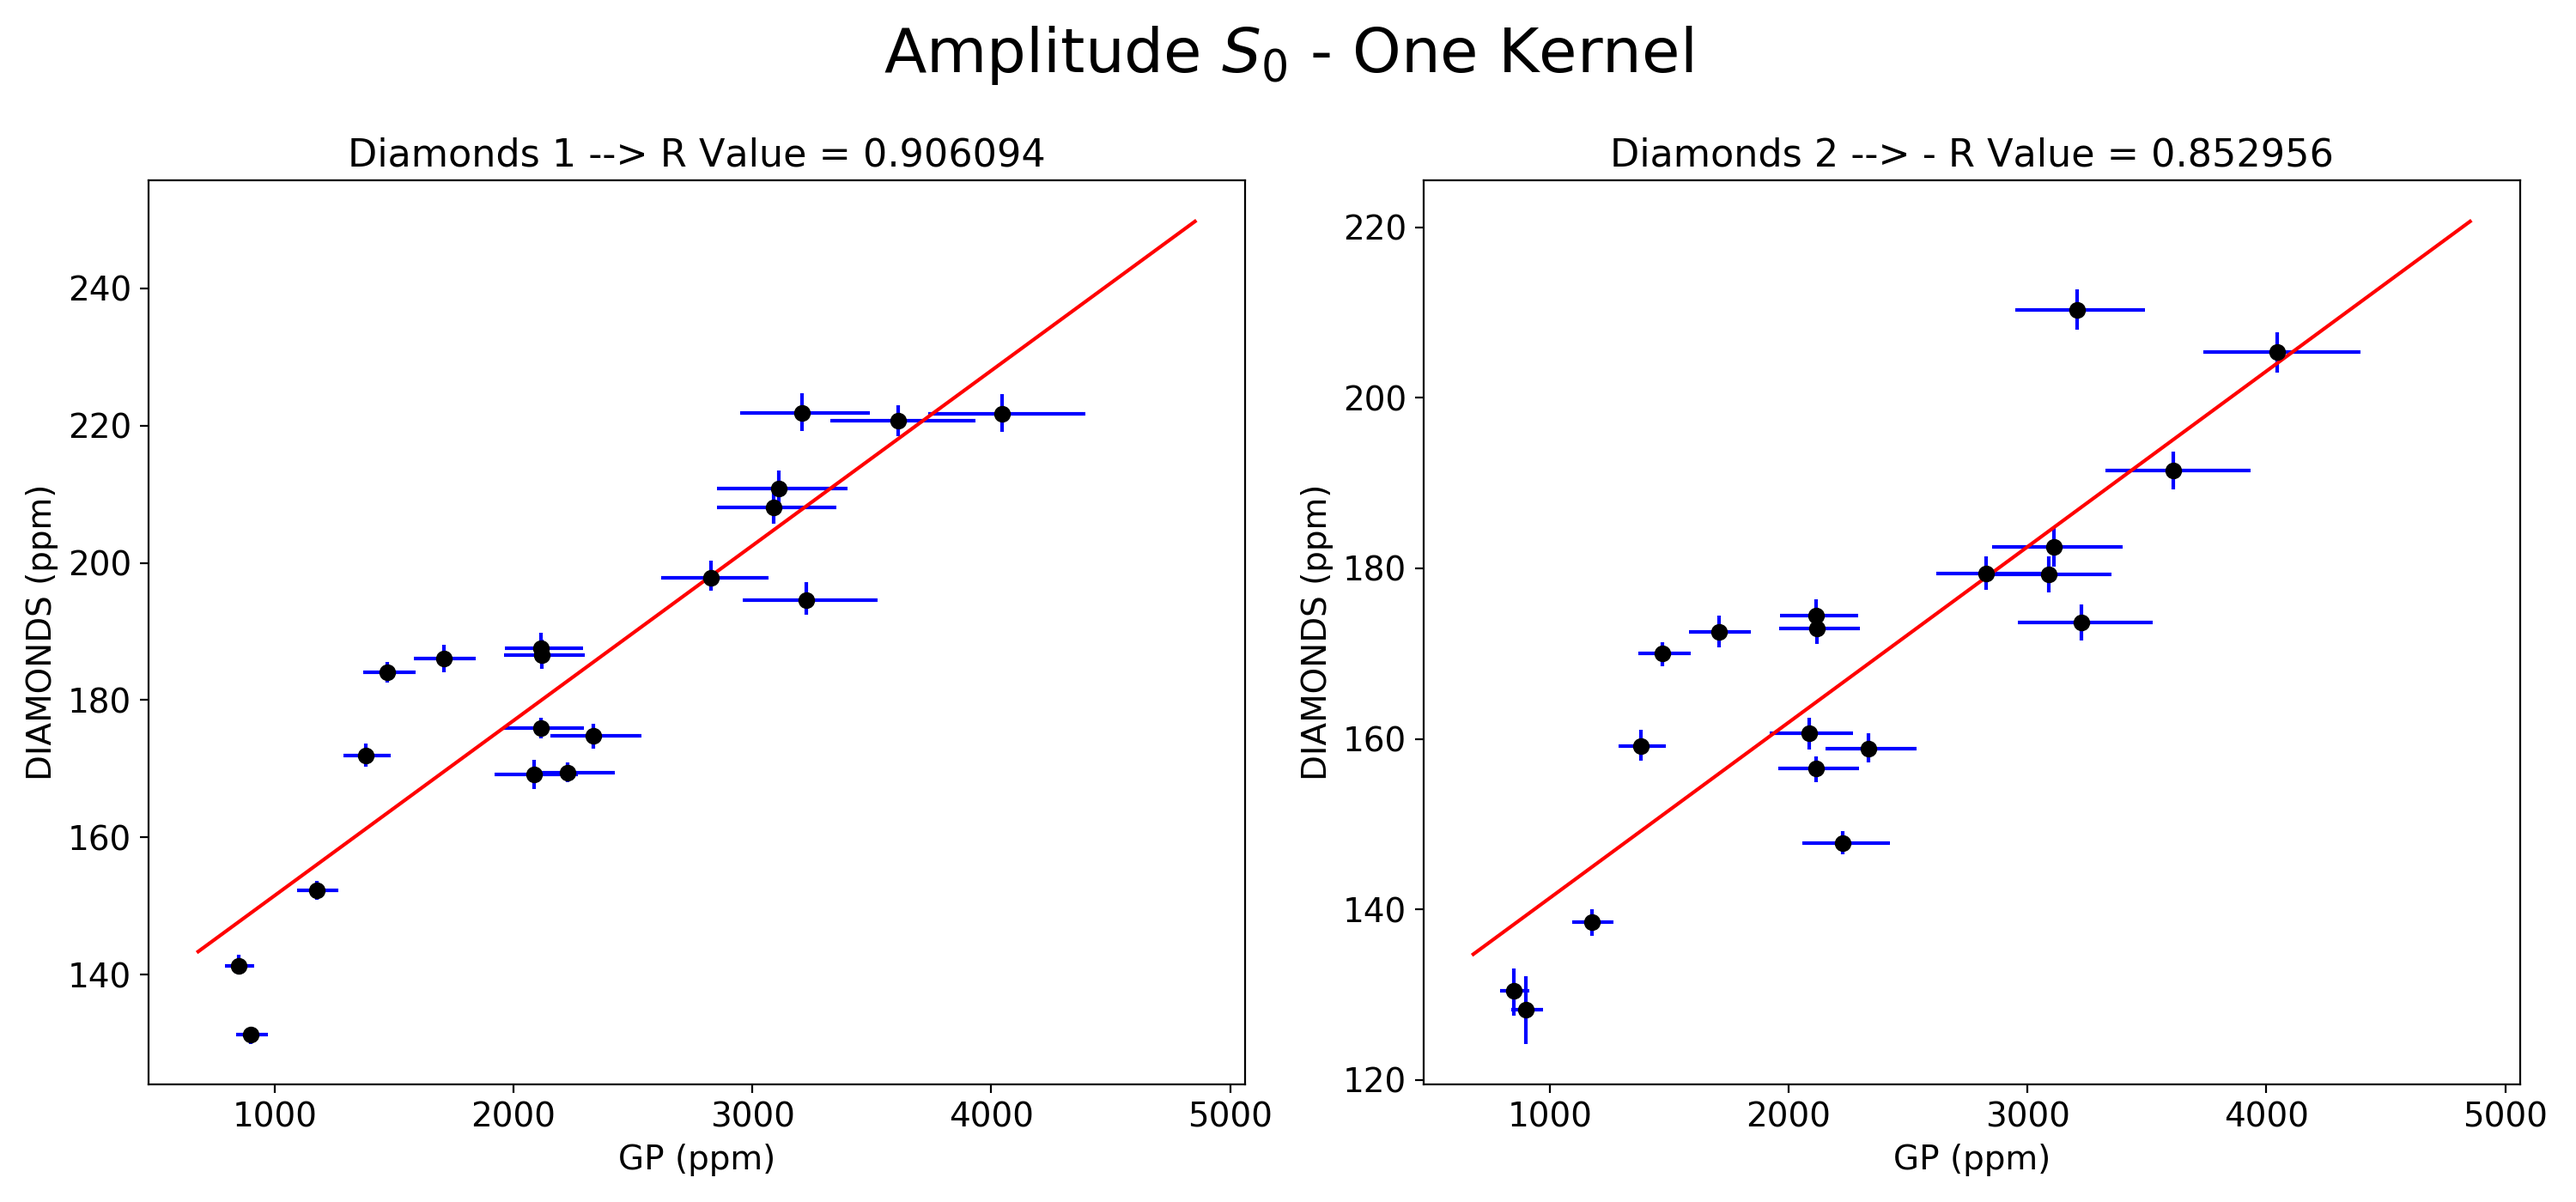
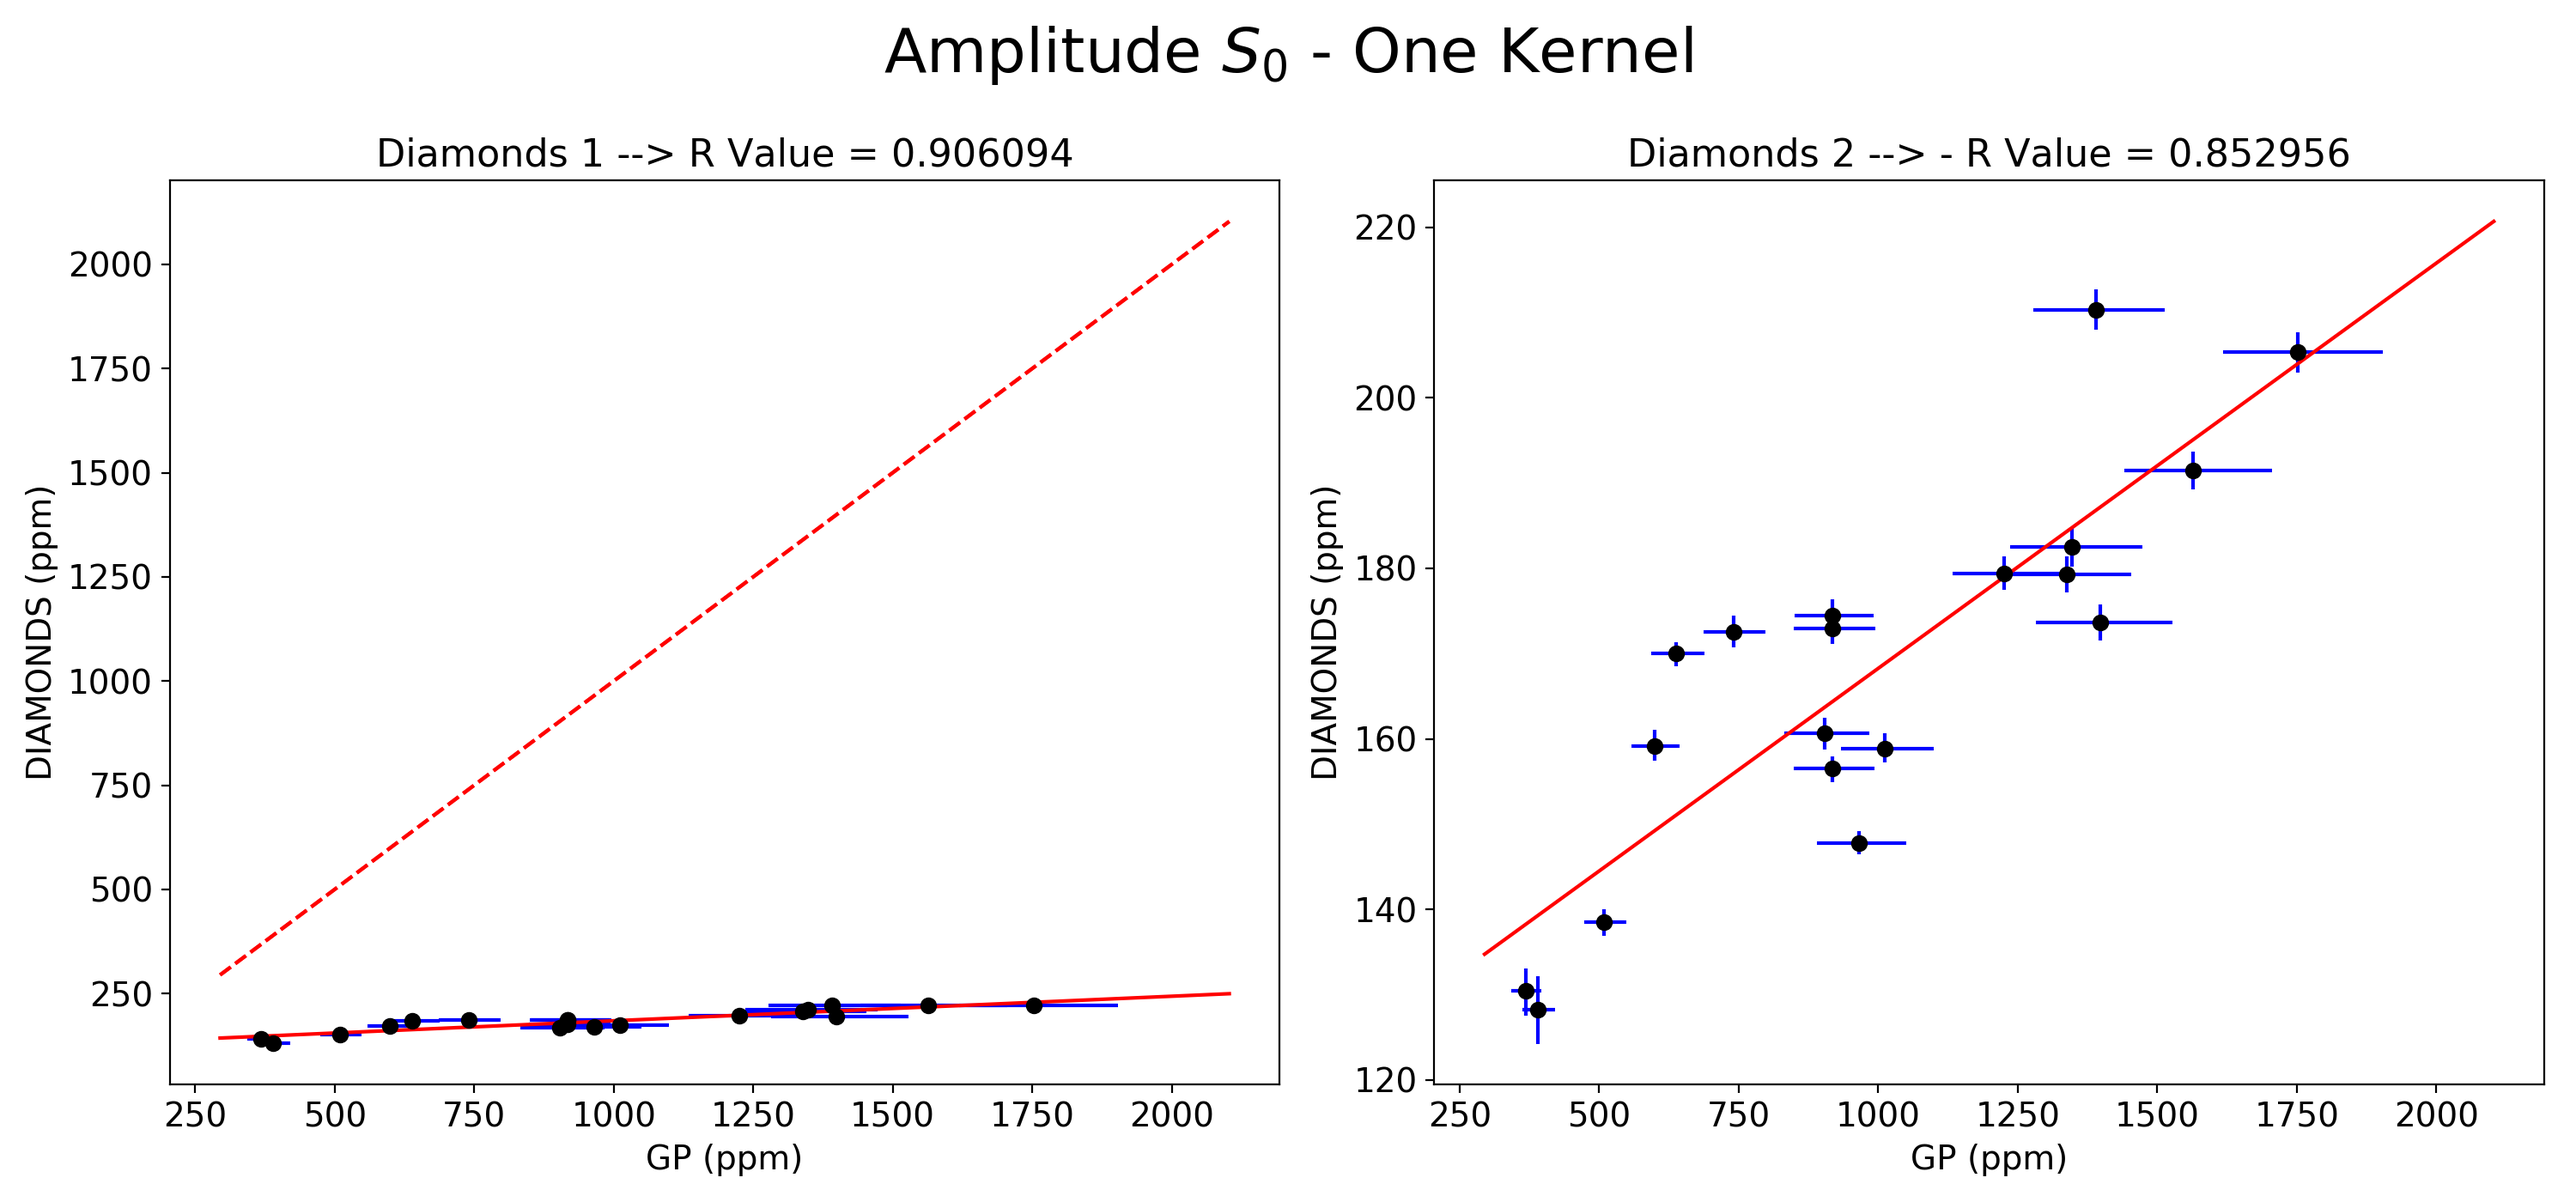
Added plots and changed plot scripts

diff --git a/GPTransits/test_script.py b/GPTransits/test_script.py
@@ -11,17 +11,17 @@ celerite_2kernel_large =  np.genfromtxt('celerite_mast_2kernel_large.results')
 diamonds = np.genfromtxt('diamonds.results')
 diamonds2 = np.genfromtxt('diamonds2.results')
 
-#factor = np.pi*2
-factor = 1
+factor = np.pi*2
+#factor = 1
 
 # Normalization
-celerite_1kernel[:,1:4] = np.sqrt(celerite_1kernel[:,1:4]*celerite_1kernel[:,1:4])
+celerite_1kernel[:,1:4] = np.sqrt(celerite_1kernel[:,1:4]*celerite_1kernel[:,1:4]/(4*np.pi**(1/4)))
 celerite_1kernel[:,4:7] = celerite_1kernel[:,4:7]*1e6/(24*3600*factor)
 
-celerite_2kernel_small[:,1:4] = np.sqrt(celerite_2kernel_small[:,1:4]*celerite_2kernel_small[:,1:4])
+celerite_2kernel_small[:,1:4] = np.sqrt(celerite_2kernel_small[:,1:4]*celerite_2kernel_small[:,1:4]/(4*np.pi**(1/4)))
 celerite_2kernel_small[:,4:7] = celerite_2kernel_small[:,4:7]*1e6/(24*3600*factor)
 
-celerite_2kernel_large[:,1:4] = np.sqrt(celerite_2kernel_large[:,1:4]*celerite_2kernel_large[:,1:4])
+celerite_2kernel_large[:,1:4] = np.sqrt(celerite_2kernel_large[:,1:4]*celerite_2kernel_large[:,1:4]/(4*np.pi**(1/4)))
 celerite_2kernel_large[:,4:7] = celerite_2kernel_large[:,4:7]*1e6/(24*3600*factor)
 
 ############################################################################
@@ -41,6 +41,7 @@ x = np.linspace(min(celerite_1kernel[:,1]*0.8), max(celerite_1kernel[:,1]*1.2), 
 linreg = linregress(celerite_1kernel[:,1], diamonds[:,1])
 rvalue = linreg.rvalue
 ax1.plot(x, x*linreg.slope + linreg.intercept, 'r')
+ax1.plot(x, x, 'r--')
 print(linreg.slope)
 
 ax1.set_title('Diamonds 1 --> R Value = {:6f}'.format(abs(rvalue)), fontsize=16)
@@ -58,6 +59,7 @@ x = np.linspace(min(celerite_1kernel[:,1]*0.8), max(celerite_1kernel[:,1]*1.2), 
 linreg = linregress(celerite_1kernel[:,1], diamonds2[:,1])
 rvalue = linreg.rvalue
 ax2.plot(x, x*linreg.slope + linreg.intercept, 'r')
+ax1.plot(x, x, 'r--')
 print(linreg.slope)
 
 ax2.set_title('Diamonds 2 --> - R Value = {:6f}'.format(abs(rvalue)), fontsize=16)
@@ -83,6 +85,7 @@ x = np.linspace(min(celerite_2kernel_small[:,1]*0.8), max(celerite_2kernel_small
 linreg = linregress(celerite_2kernel_small[:,1], diamonds[:,1])
 rvalue = linreg.rvalue
 ax3.plot(x, x*linreg.slope + linreg.intercept, 'r')
+ax1.plot(x, x, 'r--')
 print(linreg.slope)
 
 ax3.set_title('Small Kernel - Diamonds 1 --> R Value = {:6f}'.format(abs(rvalue)), fontsize=16)
@@ -100,6 +103,7 @@ x = np.linspace(min(celerite_2kernel_large[:,1]*0.8), max(celerite_2kernel_large
 linreg = linregress(celerite_2kernel_large[:,1], diamonds2[:,1])
 rvalue = linreg.rvalue
 ax4.plot(x, x*linreg.slope + linreg.intercept, 'r')
+ax1.plot(x, x, 'r--')
 print(linreg.slope)
 
 ax4.set_title('Large Kernel - Diamonds 2 --> R Value = {:6f}'.format(abs(rvalue)), fontsize=16)
@@ -129,9 +133,10 @@ x = np.linspace(min(celerite_1kernel[:,4]*0.8), max(celerite_1kernel[:,4]*1.2), 
 linreg = linregress(celerite_1kernel[:,4], diamonds[:,4])
 rvalue = linreg.rvalue
 ax1.plot(x, x*linreg.slope + linreg.intercept, 'r')
+#ax1.plot(x, x, 'r--')
 print(linreg.slope)
 
-ax1.set_title('Diamonds 1 --> R Value = {:6f}'.format(abs(rvalue)), fontsize=16)
+ax1.set_title(r'Low $\omega_0$ Diamonds --> R Value = {:6f}'.format(abs(rvalue)), fontsize=16)
 ax1.set_xlabel(r'GP ($\mu$Hz)',fontsize=14)
 ax1.set_ylabel(r'DIAMONDS ($\mu$Hz)',fontsize=14)
 ax1.tick_params(axis='both', which='major', labelsize=14)
@@ -145,9 +150,10 @@ x = np.linspace(min(celerite_1kernel[:,4]*0.8), max(celerite_1kernel[:,4]*1.2), 
 linreg = linregress(celerite_1kernel[:,4], diamonds2[:,4])
 rvalue = linreg.rvalue
 ax2.plot(x, x*linreg.slope + linreg.intercept, 'r')
+#ax2.plot(x, x, 'r--')
 print(linreg.slope)
               
-ax2.set_title('Diamonds 2 --> R Value = {:6f}'.format(abs(rvalue)), fontsize=16)
+ax2.set_title(r'High $\omega_0$ Diamonds --> R Value = {:6f}'.format(abs(rvalue)), fontsize=16)
 ax2.set_xlabel(r'GP ($\mu$Hz)',fontsize=14)
 ax2.set_ylabel(r'DIAMONDS ($\mu$Hz)',fontsize=14)
 ax2.tick_params(axis='both', which='major', labelsize=14)
@@ -168,9 +174,10 @@ x = np.linspace(min(celerite_2kernel_small[:,4]*0.8), max(celerite_2kernel_small
 linreg = linregress(celerite_2kernel_small[:,4], diamonds[:,4])
 rvalue = linreg.rvalue
 ax3.plot(x, x*linreg.slope + linreg.intercept, 'r')
+ax3.plot(x, x, 'r--')
 print(linreg.slope)
 
-ax3.set_title('Small Kernel - Diamonds 1 --> R Value = {:6f}'.format(abs(rvalue)), fontsize=16)
+ax3.set_title(r'Low $\omega_0$ Kernel - Low $\omega_0$ Diamonds --> R Value = {:6f}'.format(abs(rvalue)), fontsize=16)
 ax3.set_xlabel(r'GP ($\mu$Hz)',fontsize=14)
 ax3.set_ylabel(r'DIAMONDS ($\mu$Hz)',fontsize=14)
 ax3.tick_params(axis='both', which='major', labelsize=14)
@@ -184,9 +191,10 @@ x = np.linspace(min(celerite_2kernel_large[:,4]*0.8), max(celerite_2kernel_large
 linreg = linregress(celerite_2kernel_large[:,4], diamonds2[:,4])
 rvalue = linreg.rvalue
 ax4.plot(x, x*linreg.slope + linreg.intercept, 'r')
+ax4.plot(x, x, 'r--')
 print(linreg.slope)
               
-ax4.set_title('Large Kernel - Diamonds 2 --> R Value = {:6f}'.format(abs(rvalue)), fontsize=16)
+ax4.set_title(r'High $\omega_0$ Kernel - High $\omega_0$ Diamonds --> R Value = {:6f}'.format(abs(rvalue)), fontsize=16)
 ax4.set_xlabel(r'GP ($\mu$Hz)',fontsize=14)
 ax4.set_ylabel(r'DIAMONDS ($\mu$Hz)',fontsize=14)
 ax4.tick_params(axis='both', which='major', labelsize=14)

diff --git a/GPTransits/backend.py b/GPTransits/backend.py
@@ -105,9 +105,9 @@ def setup_celerite(pars):
 	#S1, w1, S2, w2, S3, w3, jitter = pars
 	#S1, w1, S2, w2, S3, w3 = pars
 	#S1, w1, S2, w2, jitter = pars
-	#S1, w1, S2, w2 = pars
+	S1, w1, S2, w2 = pars
 	#S1, w1, jitter = pars
-	S1, w1 = pars
+	#S1, w1 = pars
 	
 	Q = 1.0 / np.sqrt(2.0)
 	terms = []
@@ -125,14 +125,14 @@ def setup_celerite(pars):
 	#'''
 	kernel_1 = celerite.terms.SHOTerm(log_S0=np.log(S1), log_Q=np.log(Q), log_omega0=np.log(w1))
 	kernel_1.freeze_parameter("log_Q")
-	#kernel_2 = celerite.terms.SHOTerm(log_S0=np.log(S2), log_Q=np.log(Q), log_omega0=np.log(w2))
-	#kernel_2.freeze_parameter("log_Q")
+	kernel_2 = celerite.terms.SHOTerm(log_S0=np.log(S2), log_Q=np.log(Q), log_omega0=np.log(w2))
+	kernel_2.freeze_parameter("log_Q")
 	#kernel_3 = celerite.terms.SHOTerm(log_S0=np.log(S3), log_Q=np.log(Q), log_omega0=np.log(w3))
 	#kernel_3.freeze_parameter("log_Q")
 	#kernel_4 = celerite.terms.SHOTerm(log_S0=np.log(S3), log_Q=np.log(Q), log_omega0=np.log(w3))
 	#kernel_4.freeze_parameter("log_Q")
 
-	kernel = kernel_1 #+ kernel_2 #+ kernel_3 #+ kernel_4
+	kernel = kernel_1 + kernel_2 #+ kernel_3 #+ kernel_4
 	#kernel += celerite.terms.JitterTerm(log_sigma=np.log(jitter))
 	#'''
 	
@@ -300,34 +300,35 @@ def run_mcmc(data, priors, plot=False, init_pars=None, nwalkers=20, burnin=500, 
 	if plot:
 
 		# Plotting the results from the MCMC method
-		fig1 = plt.figure("MCMC Method", figsize=(14, 14))
-		ax1 = fig1.add_subplot(211)
-		ax2 = fig1.add_subplot(212)
+		fig1 = plt.figure("MCMC Method", figsize=(14, 7))
+		ax1 = fig1.add_subplot(111)
+		#ax2 = fig1.add_subplot(212)
 		# Plot initial data with errors in both subplots
 		ax1.errorbar(phase, flux, yerr=error, fmt=".k", capsize=0, label= 'Flux', markersize='3', elinewidth=1)
-		ax2.errorbar(phase, flux, yerr=error, fmt=".k", capsize=0, label= 'Flux', markersize='3', elinewidth=1)
+		#ax2.errorbar(phase, flux, yerr=error, fmt=".k", capsize=0, label= 'Flux', markersize='3', elinewidth=1)
 		numpoints = (max(phase)-min(phase))/(1.0/48.0)
 		x = np.linspace(min(phase), max(phase), num=numpoints)
 		# Plot conditional predictive distribution of the model in upper plot
 		mu, cov = gp.predict(flux, x)
 		std = np.sqrt(np.diag(cov))
 		std = np.nan_to_num(std)
-		ax1.plot(x, mu, color="#ff7f0e", label= 'Mean distribution GP', linewidth=0.3)
-		ax1.fill_between(x, mu+3*std, mu-3*std, color="#ff7f0e", alpha=0.15, edgecolor="none", label= '3 sigma', linewidth=0.5)
-		ax1.fill_between(x, mu+2*std, mu-2*std, color="#ff7f0e", alpha=0.3, edgecolor="none", label= '2 sigma', linewidth=0.5)
-		ax1.fill_between(x, mu+std, mu-std, color="#ff7f0e", alpha=0.5, edgecolor="none", label= '1 sigma', linewidth=0.5)
-		ax1.set_title("Probability distribution for the gaussian process with the parameters from the MCMC",fontsize=15)
+		ax1.plot(x, mu, color="#ff7f0e", label= 'Mean distribution GP', linewidth=0.5)
+		#ax1.fill_between(x, mu+3*std, mu-3*std, color="#ff7f0e", alpha=0.15, edgecolor="none", label= '3 sigma', linewidth=0.5)
+		#ax1.fill_between(x, mu+2*std, mu-2*std, color="#ff7f0e", alpha=0.3, edgecolor="none", label= '2 sigma', linewidth=0.5)
+		ax1.fill_between(x, mu+std, mu-std, color="#ff7f0e", alpha=0.6, edgecolor="none", label= '1 sigma', linewidth=0.6)
+		#ax1.set_title("Probability distribution for the gaussian process with the parameters from the MCMC",fontsize=16)
 		ax1.set_ylabel('Flux[ppm]',fontsize=16)
-		ax1.legend(loc='upper left')
+		ax1.tick_params(axis='both', which='major', labelsize=16)
+		ax1.legend(loc='upper left', fontsize=15)
 		# Compute the prediction conditioned on the observations and plot it.
 		# Plot sample from the conditional ditribution in lower plot
 		#m = gp.sample_conditional(flux, x)
 		#ax2.plot(x, m, color="#4682b4", label= 'Sample')
-		ax2.plot(x, np.random.normal(loc=mu, scale=std), color="#4682b4", label='Sample')
-		ax2.set_title("Sample drawn from the probability distribution above",fontsize=16)
-		ax2.set_xlabel('Time [days]',fontsize=16)	
-		ax2.set_ylabel('Flux [ppm]',fontsize=16)
-		ax2.legend(loc='upper left')
+		#ax2.plot(x, np.random.normal(loc=mu, scale=std), color="#4682b4", label='Sample')
+		#ax2.set_title("Sample drawn from the probability distribution above",fontsize=16)
+		ax1.set_xlabel('Time [days]',fontsize=15)	
+		#ax2.set_ylabel('Flux [ppm]',fontsize=18)
+		#ax2.legend(loc='upper left')
 
 		labels = [priors[i][0] for i in priors]
 		fig2 = corner.corner(samples, labels=labels, 

diff --git a/GPTransits/config_file.py b/GPTransits/config_file.py
@@ -7,7 +7,7 @@ Configuration file for the gp-tests methods
 filename = 'kplr008366239_mast.fits'
 filelist = 'kiclist.dat'
 # Filename where to write or append the results
-results_file = 'temp_celerite'
+results_file = 'poster_celerite'
 
 # Keywords for the fits file data
 fits_options = {}
@@ -18,9 +18,9 @@ fits_options['error'] = 'PDCSAP_FLUX_ERR'
 # Settings for defining the priors for all parameters
 prior_settings = {}
 prior_settings[0] = [r'$A_1$', 'uniform', 0.0, 2000.0]
-prior_settings[1] = [r'$\omega_{0,1}$', 'uniform', 0.0, 100.0]
-#prior_settings[2] = ['Amplitude_2', 'uniform', 0.0, 6000.0]
-#prior_settings[3] = ['Timescale_2', 'uniform', 4.0, 30.0]
+prior_settings[1] = [r'$\omega_{0,1}$', 'uniform', 32.0, 120.0]
+prior_settings[2] = ['Amplitude_2', 'uniform', 0.0, 3000.0]
+prior_settings[3] = ['Timescale_2', 'uniform', 4.0, 32.0]
 #prior_settings[4] = ['Amplitude_3', 'uniform', 0.0, 50000.0]
 #prior_settings[5] = ['Timescale_3', 'uniform', 0.0, 0.5]
 #prior_settings[6] = ['Amplitude_4', 'uniform', 0.0, 0200.0]
